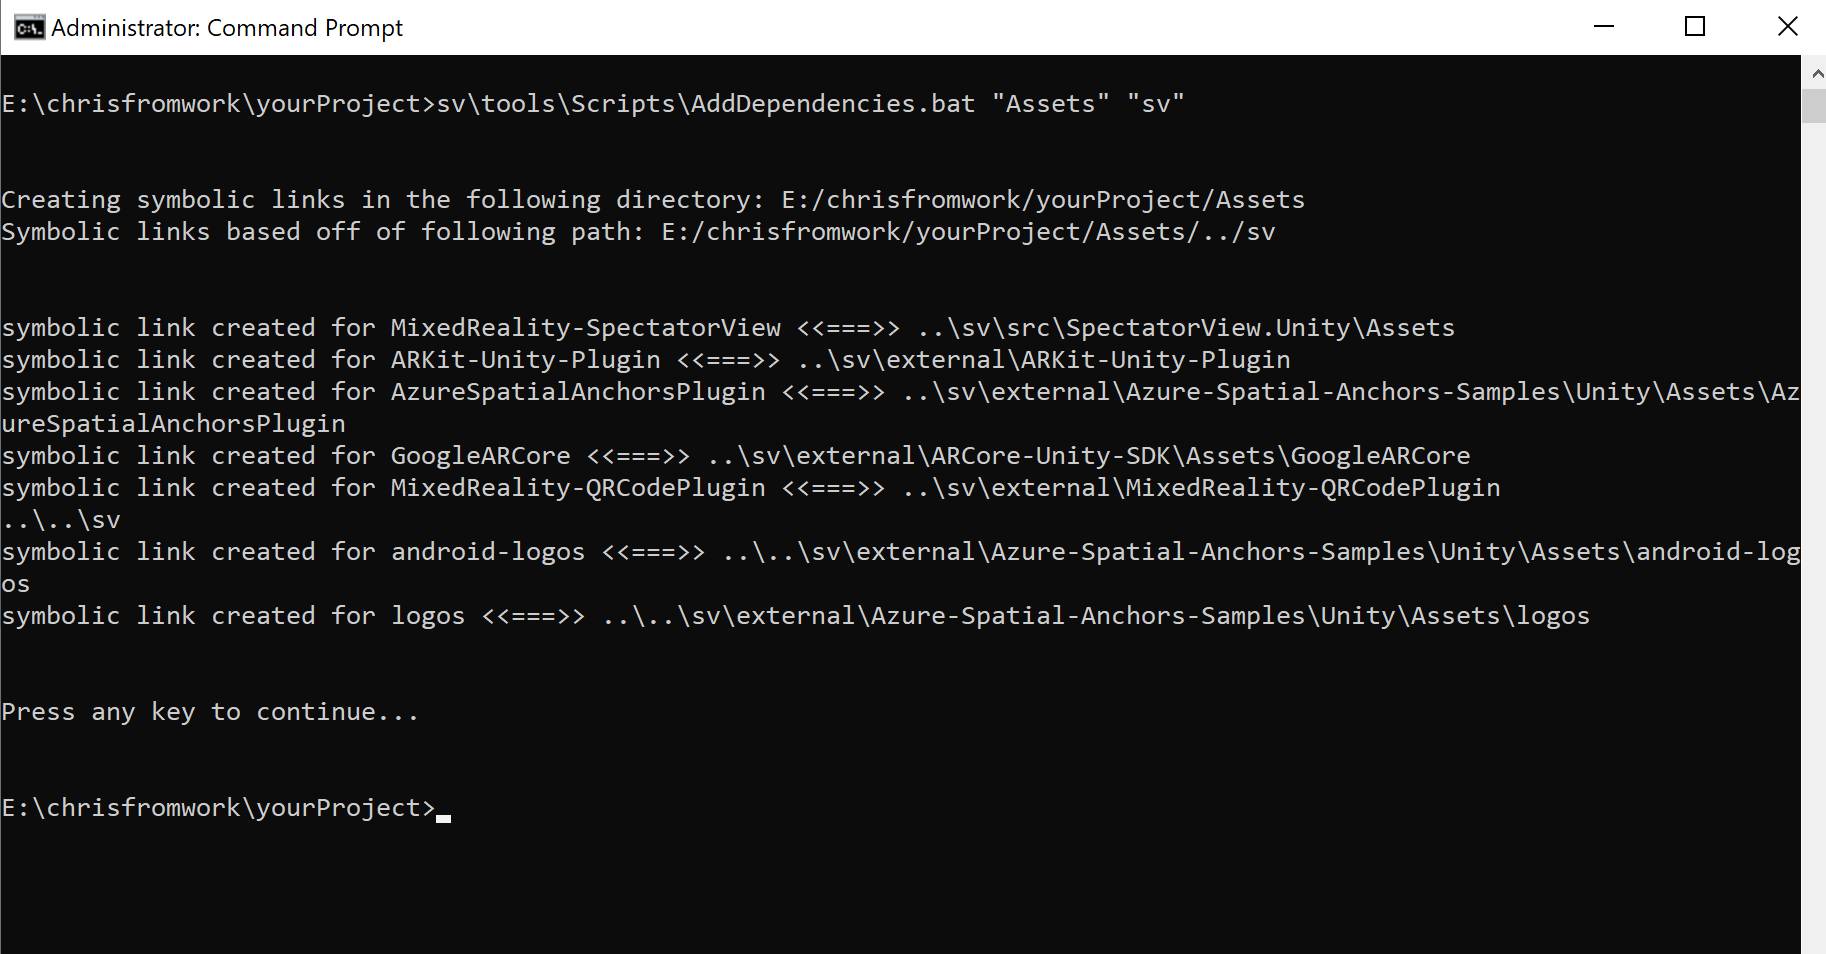
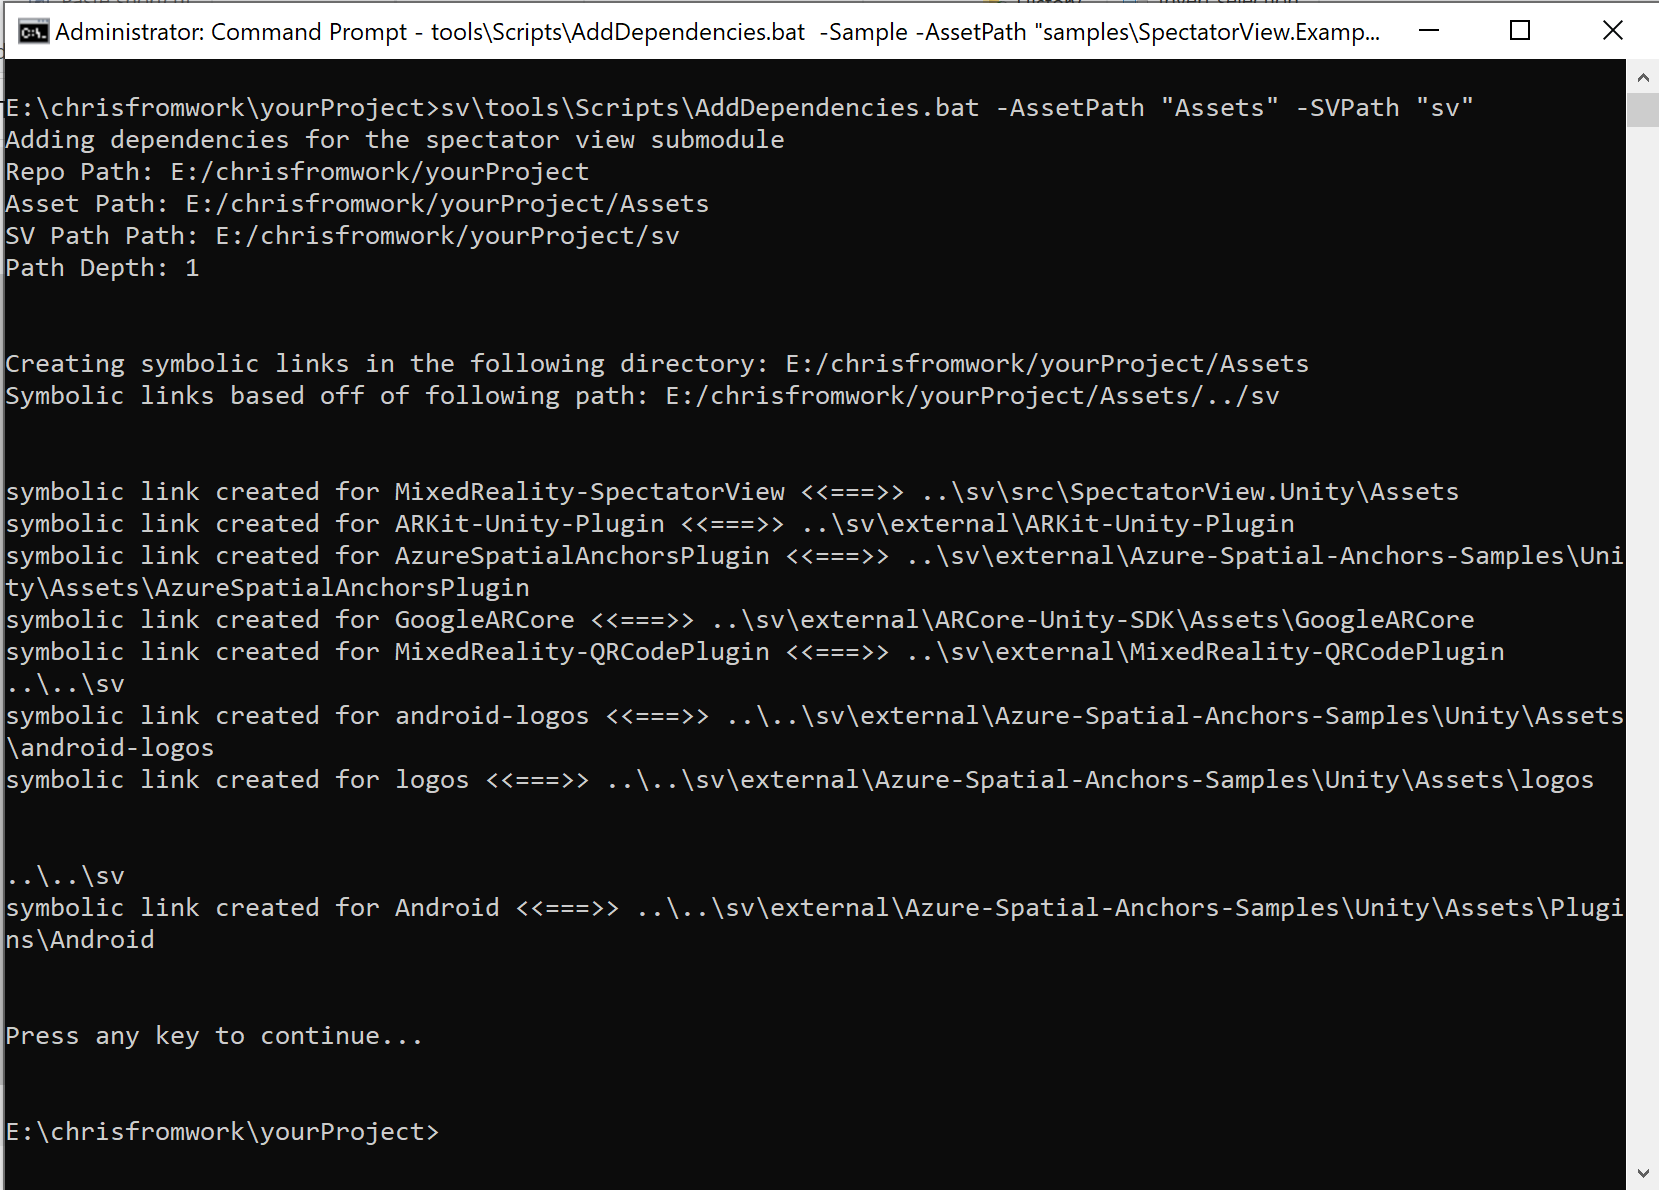
fix documentation

diff --git a/README.md b/README.md
@@ -64,7 +64,7 @@ After obtaining a local clone of the MixedReality-SpectatorView repository and r
 
 1. Close any instances of Unity.
 2. Open an administrator command window.
-3. Run `tools\Scripts\AddDependencies.bat "Assets" "sv"` (These paths are the relative paths to your project Assets folder and your MixedReality-SpectatorView submodule from the root directory of your repository).  This script is located within your MixedReality-SpectatorView submodule.
+3. Run `tools\Scripts\AddDependencies.bat -AssetPath "Assets" -SVPath "sv"` (These paths are the relative paths to your project Assets folder and your MixedReality-SpectatorView submodule from the root directory of your repository).  This script is located within your MixedReality-SpectatorView submodule.
 
 Now, when you reopen your project in Unity, folders should appear in your project's Assets folder.
 
